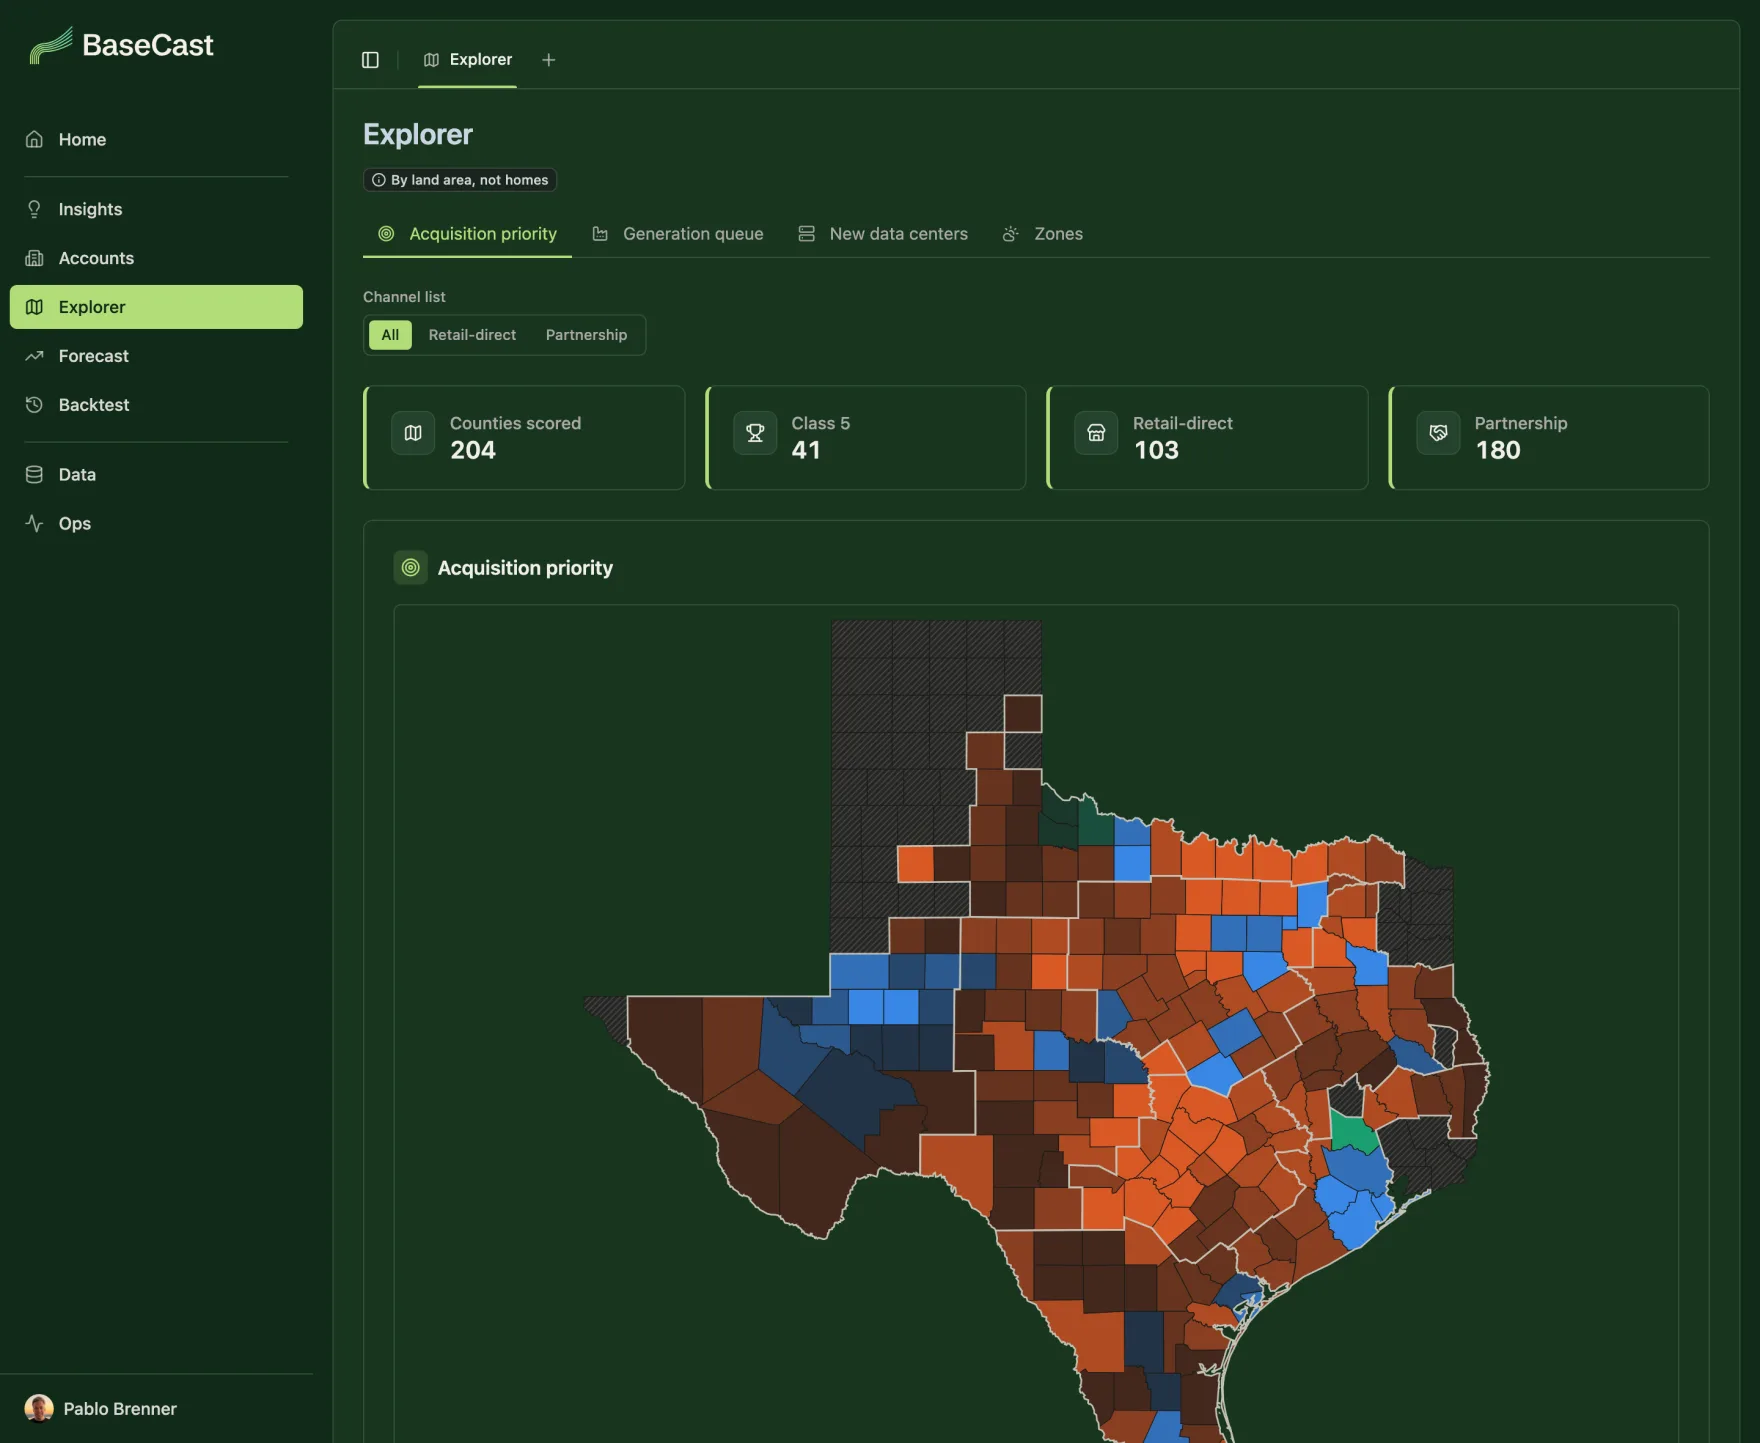
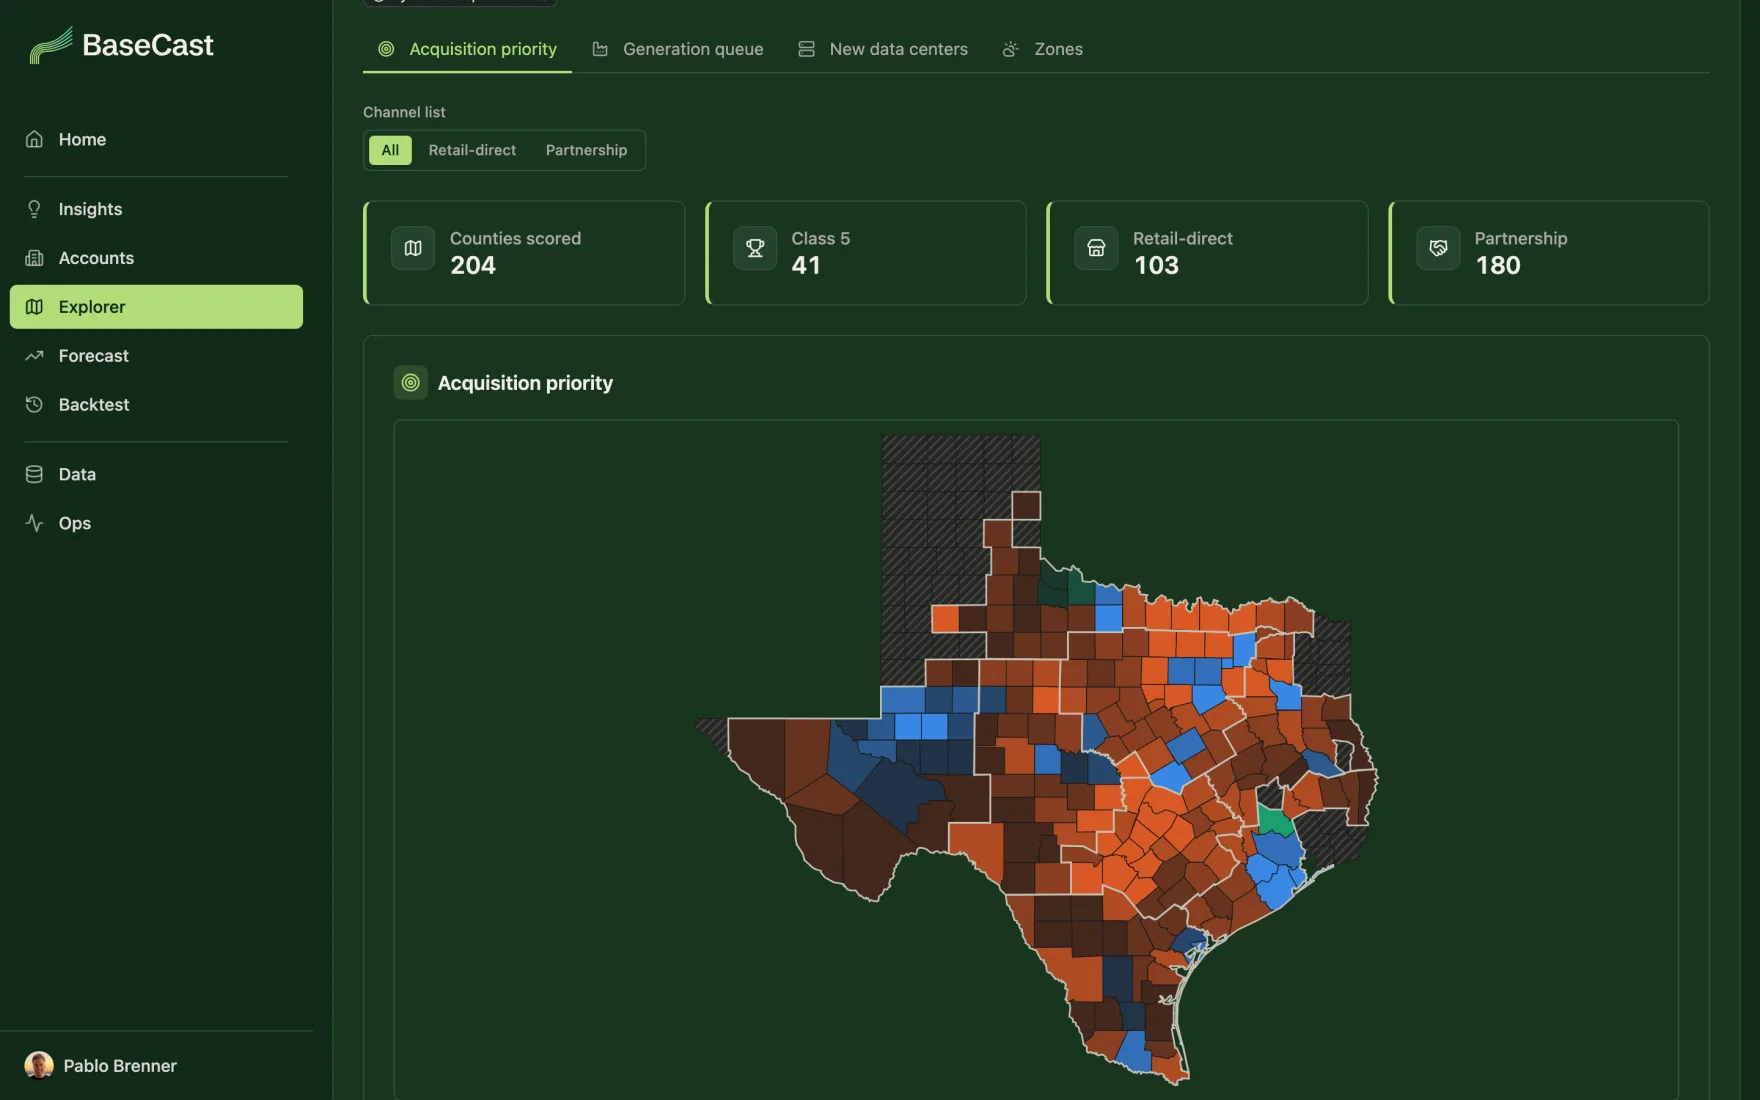
docs(readme): diagram in stacked rows, Explorer shot framed on the map

diff --git a/basecast-app/README.md b/basecast-app/README.md
@@ -82,26 +82,27 @@ file, table and pipeline run, with the dataset lineage) and **Ops** (service hea
 ## How it fits
 
 ```mermaid
-flowchart LR
-  src["Public data<br/>ERCOT · PUCT · EIA · Census<br/>BLS · NOAA · TCEQ · …"]
+flowchart TB
+  src["Public data: ERCOT · PUCT · EIA · Census · BLS · NOAA · TCEQ · …"]
 
   subgraph airflow["basecast-airflow"]
-    direction TB
+    direction LR
     raw["raw<br/>immutable snapshots"] --> process["process<br/>typed tables"] --> marts["marts<br/>models + golden checks"]
   end
 
   subgraph getdata["basecast-get-data"]
-    api["FastAPI<br/>typed endpoints, {data, meta}"]
+    direction LR
+    api["FastAPI<br/>one typed endpoint per resource"] --> meta["{data, meta}<br/>provenance + caveats"]
   end
 
   subgraph app["basecast-app · this repo"]
-    direction TB
-    bff["BFF route handlers<br/>token stays on the server"] --> ui["Next.js screens"]
+    direction LR
+    bff["BFF route handlers<br/>token stays on the server"] --> ui["Next.js screens<br/>on Vercel"]
   end
 
-  src --> raw
-  marts -- "Postgres · GCS · BigQuery" --> api
-  api -- "openapi.json → TS client" --> bff
+  src --> airflow
+  airflow -- "Postgres · GCS · BigQuery" --> getdata
+  getdata -- "openapi.json → TS client" --> app
 
   style app fill:#b2dd79,stroke:#102a17,stroke-width:2px,color:#102a17
 ```
